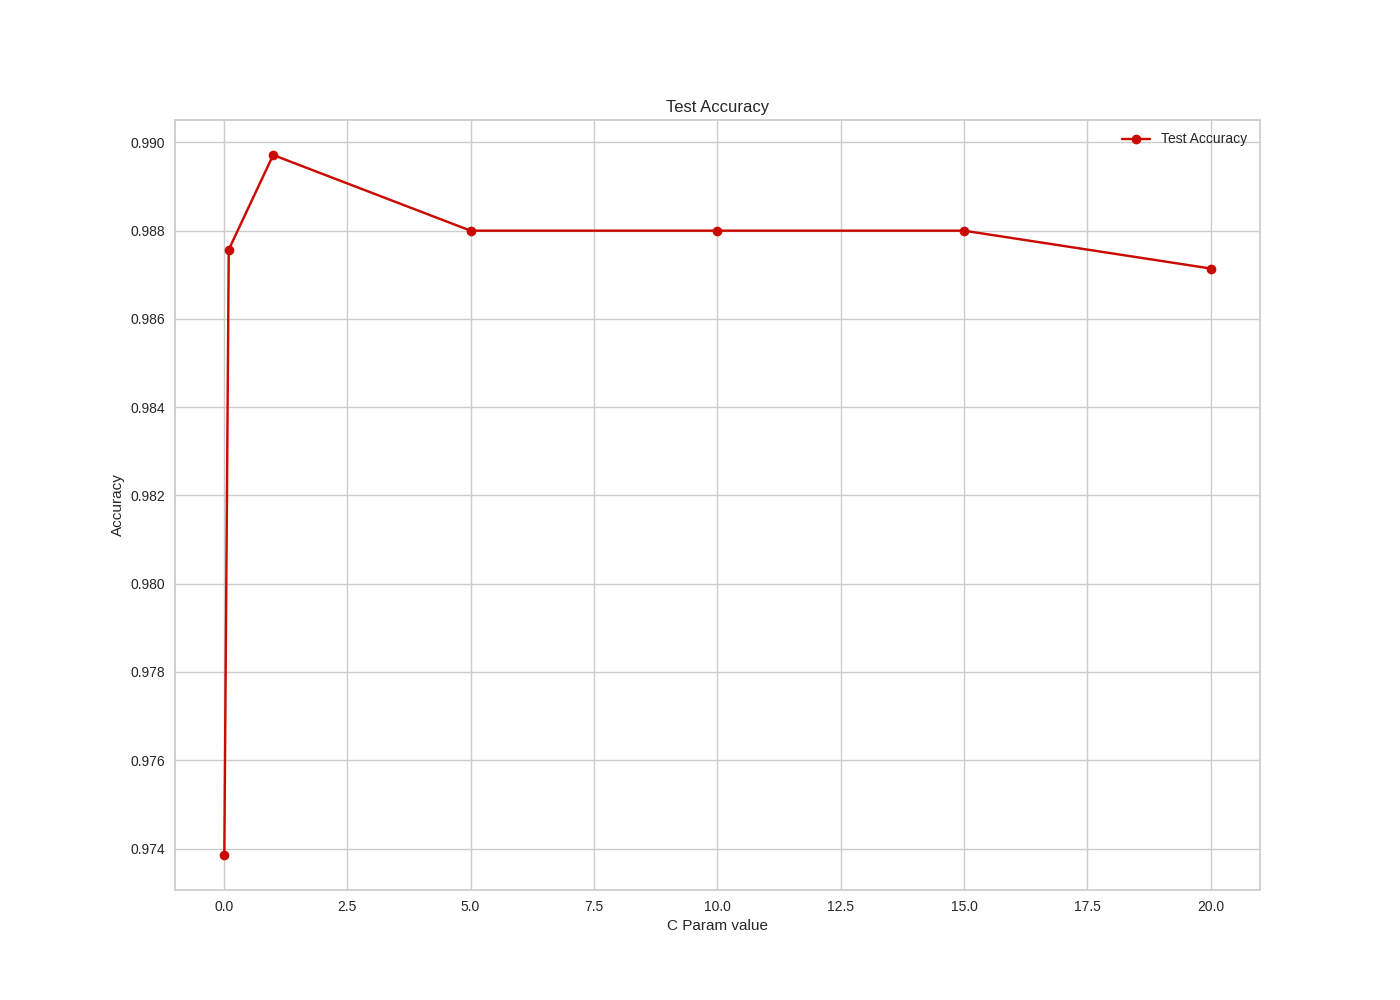
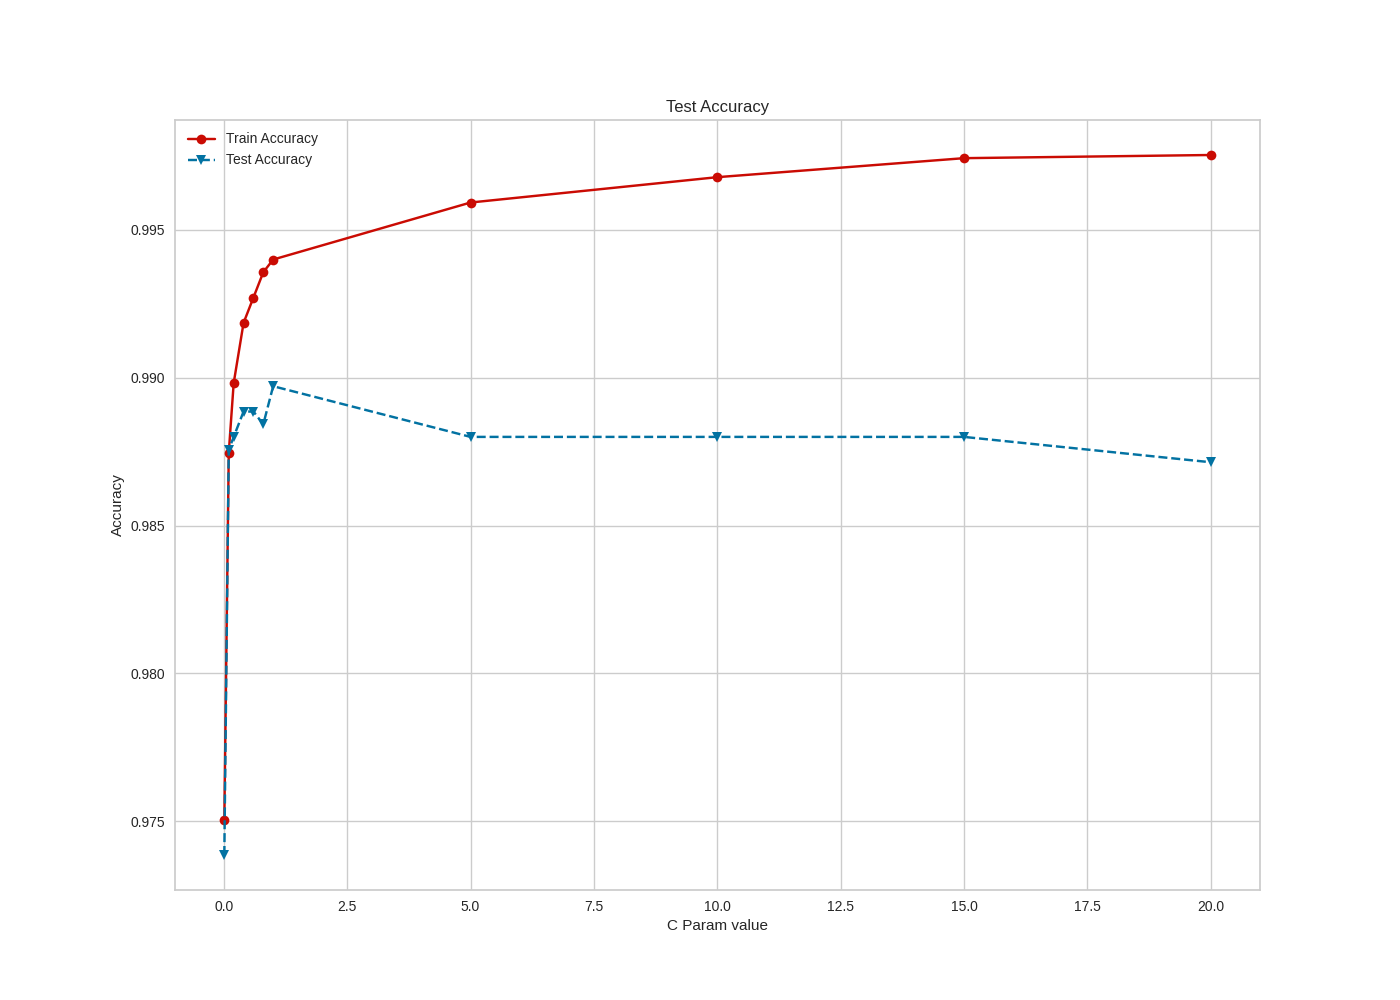
Train accuracy added in plots

diff --git a/proj/stage3/code/svmnonlinear.py b/proj/stage3/code/svmnonlinear.py
@@ -18,14 +18,13 @@ def plot_graph(folder_name, model, X_train, y_train, X_test,y_test,c, runningTim
 
         #Generating Test accuracy plot
 
-        plt.plot(c, testAccuracy, 'ro-')
-        plt.legend(['Test Accuracy'])
+        plt.plot(c, trainAccuracy, 'ro-', c, testAccuracy, 'bv--')
+        plt.legend(['Train Accuracy', 'Test Accuracy'])
         plt.xlabel('C Param value')
         plt.ylabel('Accuracy')
-        plt.title("Test Accuracy")
-        strFile = str(path)+"/output/"+folder_name+"/"+model+"/Test_Accuracy.png"
+        plt.title("SVMNonLinear-Accuracy")
+        strFile = str(path)+"/output/"+folder_name+"/"+model+"/Accuracy.png"
 
-        print(os.path.isfile(strFile))
         if os.path.isfile(strFile):
             os.remove(strFile)
         plt.savefig(strFile)
@@ -70,7 +69,7 @@ def svmNonLinearTest(X_train, X_test, y_train, y_test):
     print('SVM NonLinear Test was Called. Wait...')
 
     #hyperparameters test set
-    c= [0.01, 0.1, 1.0, 5, 10, 15,20]
+    c= [0.01, 0.1,0.2, 0.4, 0.6, 0.8, 1.0, 5, 10, 15,20]
     runningTime = []
     trainAccuracy = []
     testAccuracy = []
@@ -83,17 +82,19 @@ def svmNonLinearTest(X_train, X_test, y_train, y_test):
         rbf_svc.fit(X_train, y_train.values.ravel())
 
         y_pred_rbf = rbf_svc.predict(X_test)
+        y_train_pred_rbf = rbf_svc.predict(X_train)
         # capture the end time of calculation
         end = time.time()
 
         #Storing the metrics
         runningTime.append(end-start)
+        trainAccuracy.append(accuracy_score(y_train, y_train_pred_rbf))
         testAccuracy.append(accuracy_score(y_test, y_pred_rbf))
 
     print("printing test accuracies for rbf kernel : ", testAccuracy)
     plot_graph("svm-nonlinear", "rbf", X_train, y_train, X_test, y_test, c, runningTime, testAccuracy, trainAccuracy)
 
-    c = [0.01, 0.1, 1.0, 5, 10, 15,20]
+    c= [0.01, 0.1,0.2, 0.4, 0.6, 0.8, 1.0, 5, 10, 15,20]
     runningTime = []
     trainAccuracy = []
     testAccuracy = []
@@ -106,11 +107,13 @@ def svmNonLinearTest(X_train, X_test, y_train, y_test):
         poly_svc.fit(X_train, y_train.values.ravel())
 
         y_pred_poly = poly_svc.predict(X_test)
+        y_train_pred_poly = poly_svc.predict(X_train)
         # capture the end time of calculation
         end = time.time()
 
         #Storing the metrics
         runningTime.append(end-start)
+        trainAccuracy.append(accuracy_score(y_train, y_train_pred_poly))
         testAccuracy.append(accuracy_score(y_test, y_pred_poly))
 
     print("printing test accuracies for poly kernel : ", testAccuracy)

diff --git a/proj/stage3/code/decisiontree.py b/proj/stage3/code/decisiontree.py
@@ -7,7 +7,7 @@ from yellowbrick.classifier import ClassificationReport
 from yellowbrick.classifier import ClassPredictionError
 import matplotlib.pyplot as plt
 import os
-def decisionTreeTest(X_train, X_test, y_train, y_test, classes):\
+def decisionTreeTest(X_train, X_test, y_train, y_test, classes):
     
     print('-----------------------------')    
     print('DecisionTree Test was Called. Wait...')
@@ -15,7 +15,7 @@ def decisionTreeTest(X_train, X_test, y_train, y_test, classes):\
     
     
     path = Path(__file__).parent.absolute()
-    depths= [2, 5, 10, 20]
+    depths= list(range(1, 51))
     runningTime = []
     trainAccuracy = []
     testAccuracy = []
@@ -28,11 +28,13 @@ def decisionTreeTest(X_train, X_test, y_train, y_test, classes):\
         clf_gini.fit(X_train, y_train.values.ravel())
 
         y_pred_gini = clf_gini.predict(X_test)
+        y_train_pred_gini = clf_gini.predict(X_train)
         # capture the end time of calculation
         end = time.time()
 
         #Storing the metrics
         runningTime.append(end-start)
+        trainAccuracy.append(accuracy_score(y_train, y_train_pred_gini))
         testAccuracy.append(accuracy_score(y_test, y_pred_gini))
     
     #print(trainAccuracy)
@@ -49,12 +51,12 @@ def decisionTreeTest(X_train, X_test, y_train, y_test, classes):\
     #Generating Test accuracy plot
 
 
-    plt.plot(depths, testAccuracy, 'ro-')
-    plt.legend(['Test Accuracy'])
+    plt.plot(depths, trainAccuracy, 'ro-',depths, testAccuracy, 'bv--')
+    plt.legend(['Train Accuracy', 'Test Accuracy'])
     plt.xlabel('max_depth values')
     plt.ylabel('Accuracy')
-    plt.title("Test Accuracy")
-    strFile = str(path)+"/output/DecisionTree"+"/Test Accuracy.png"
+    plt.title("Decison Tree - Accuracy")
+    strFile = str(path)+"/output/DecisionTree"+"/Accuracy.png"
 
     print(os.path.isfile(strFile))
     if os.path.isfile(strFile):

diff --git a/proj/stage3/code/logisticregression.py b/proj/stage3/code/logisticregression.py
@@ -17,7 +17,7 @@ def logisticRegressionTest(X_train, X_test, y_train, y_test):
     print('-----------------------------')    
     print('Logistic Regression Test was Called. Wait...')
 
-    c= ["liblinear", "sag", "lbfgs"]
+    c= [0.01, 0.1,0.2, 0.4, 0.6, 0.8, 1.0, 5, 10, 15,20]
     runningTime = []
     trainAccuracy = []
     testAccuracy = []
@@ -25,11 +25,13 @@ def logisticRegressionTest(X_train, X_test, y_train, y_test):
     for i in c:
         # capture the start time
         start = time.time()
-        clf = LogisticRegression(random_state=0, solver=i,class_weight='balanced', max_iter=10000).fit(X_train, np.ravel(y_train))
+        clf = LogisticRegression(random_state=1, c=i, class_weight='balanced', max_iter=10000).fit(X_train, np.ravel(y_train))
         y_pred_lr = clf.predict(X_test)
+        y_train_pred_lr = clf.predict(X_train)
         # capture the end time of calculation
         end = time.time()
         runningTime.append(end-start)
+        trainAccuracy.append((accuracy_score(y_test, y_train_pred_lr)))
         testAccuracy.append(accuracy_score(y_test, y_pred_lr))
 
 
@@ -41,12 +43,12 @@ def logisticRegressionTest(X_train, X_test, y_train, y_test):
     plt.clf()
 
     #Generating Test accuracy plot
-    plt.plot(c, testAccuracy, 'ro-')
-    plt.legend(['Test Accuracy'])
-    plt.xlabel('Solver function')
+    plt.plot(c, trainAccuracy, 'ro-', c, testAccuracy, 'bv--')
+    plt.legend(['Train Accuracy', 'Test Accuracy'])
+    plt.xlabel('C Param value')
     plt.ylabel('Accuracy')
-    plt.title("Test Accuracy")
-    strFile = str(path)+"/output/logistic-regression"+"/Test Accuracy.png"
+    plt.title("Logistic Regression-Accuracy")
+    strFile = str(path)+"/output/logistic-regression"+"/Accuracy.png"
 
     print(os.path.isfile(strFile))
     if os.path.isfile(strFile):

diff --git a/proj/stage3/code/svm.py b/proj/stage3/code/svm.py
@@ -15,7 +15,7 @@ def svmLinearTest(X_train, X_test, y_train, y_test, classes):
     print('SVM Linear Test was Called. Wait...')
     path = Path(__file__).parent.absolute()
 
-    c= [0.01, 0.1, 1.0, 5, 10, 15,20]
+    c= [0.01, 0.1,0.2, 0.4, 0.6, 0.8, 1.0, 5, 10, 15,20]
     runningTime = []
     trainAccuracy = []
     testAccuracy = []
@@ -28,11 +28,13 @@ def svmLinearTest(X_train, X_test, y_train, y_test, classes):
         svc.fit(X_train, y_train.values.ravel())
 
         y_pred_linear = svc.predict(X_test)
+        y_train_pred_linear = svc.predict(X_train)
         # capture the end time of calculation
         end = time.time()
 
         #Storing the metrics
         runningTime.append(end-start)
+        trainAccuracy.append(accuracy_score(y_train, y_train_pred_linear))
         testAccuracy.append(accuracy_score(y_test, y_pred_linear))
 
     #Printing the metrics/Generating visualization
@@ -46,14 +48,13 @@ def svmLinearTest(X_train, X_test, y_train, y_test, classes):
     #Generating Test accuracy plot
 
 
-    plt.plot(c, testAccuracy, 'ro-')
-    plt.legend(['Test Accuracy'])
+    plt.plot(c, trainAccuracy, 'ro-', c, testAccuracy, 'bv--')
+    plt.legend(['Train Accuracy', 'Test Accuracy'])
     plt.xlabel('C Param value')
     plt.ylabel('Accuracy')
-    plt.title("Test Accuracy")
-    strFile = str(path)+"/output/svm-linear"+"/Test Accuracy.png"
+    plt.title("SVMLinear-Accuracy")
+    strFile = str(path)+"/output/svm-linear"+"/Accuracy.png"
 
-    print(os.path.isfile(strFile))
     if os.path.isfile(strFile):
         os.remove(strFile)
     plt.savefig(strFile)
